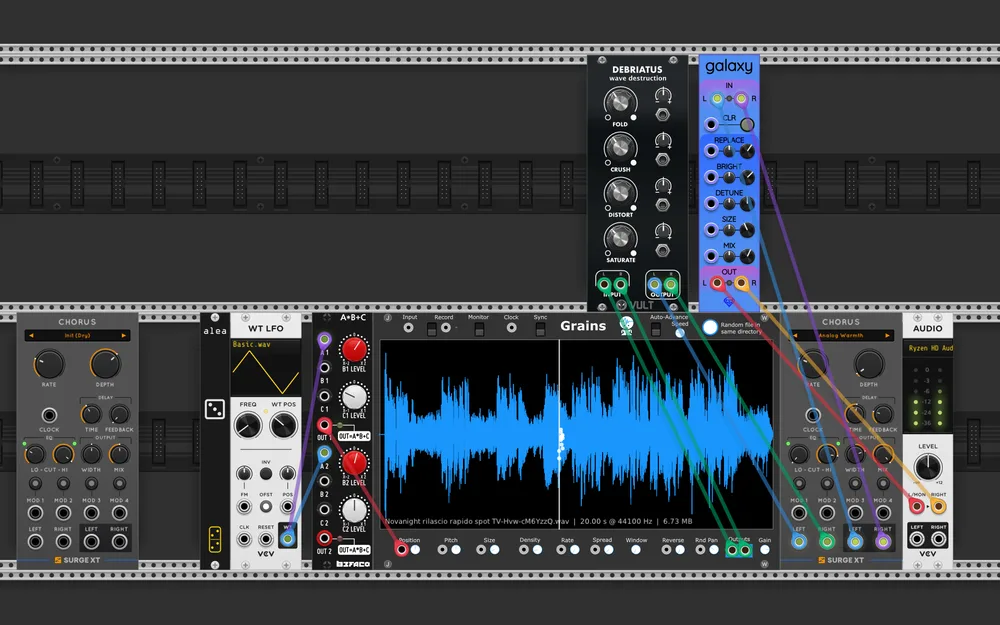
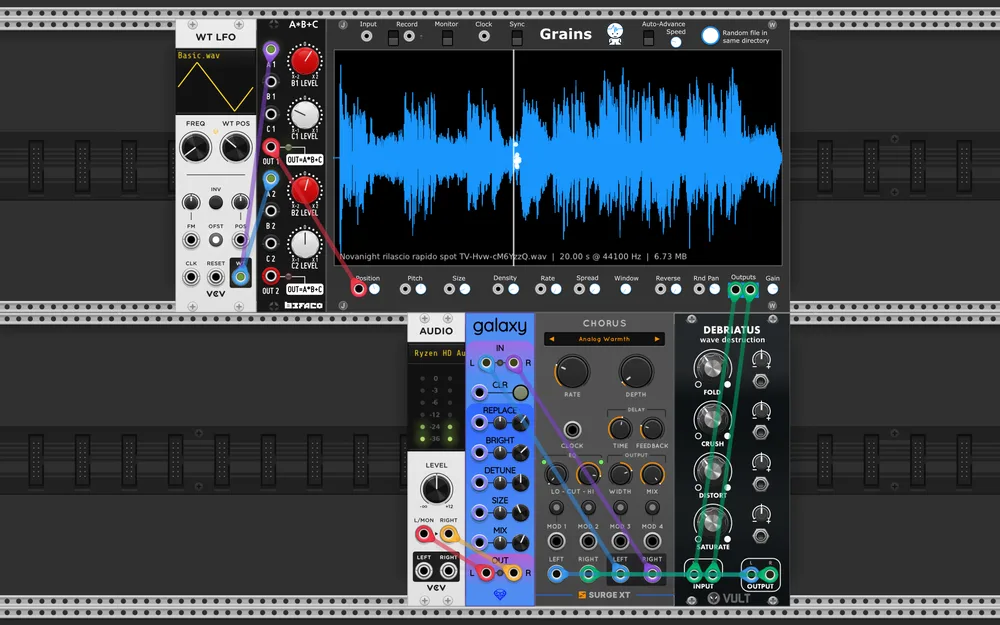
author's description and new screenshot for sheep as the symbol of sleep

diff --git a/2026-Q3/readme.md b/2026-Q3/readme.md
@@ -35,17 +35,18 @@ instruction it follows.
 | VCV Free | Wavetable LFO | the slow scan |
 | Befaco | A*B+C | scales that scan into the grain position range |
 | Vult Modules Free | Debriatus | distortion |
-| Surge XT | Chorus | widens it (a second one sits unpatched) |
+| Surge XT | Chorus | widens it |
 | Sapphire | Galaxy | reverb |
 | VCV Core | Audio 2 | output |
 
-Eleven cables, and six of them are just the signal walking to the output. A
-granular sampler has its playback position swept by one wavetable LFO, scaled
-into range by *A\*B+C*, and everything after that is blur: distortion, chorus,
-reverb, three stages that each smear it further.
+A wavetable LFO generates an oscillation that *A\*B+C* scales and offsets, to
+centre it on the interesting part of the sample loaded into *Grains*. The
+signal then passes through distortion, chorus and reverb.
 
-The title counts sheep, and the patch is built to be dozed off to, though the
-distortion argues with the idea.
+There is an advert on Italian television for a melatonin tablet that helps you
+sleep well. In it a sheep makes a sound that has always caught my ear
+acoustically. I sampled the spot, and in this patch it is the audio source for
+a granular exploration.
 
 ## stale branch - 2026-07-12 (VCV Rack 2.6.6)
 
